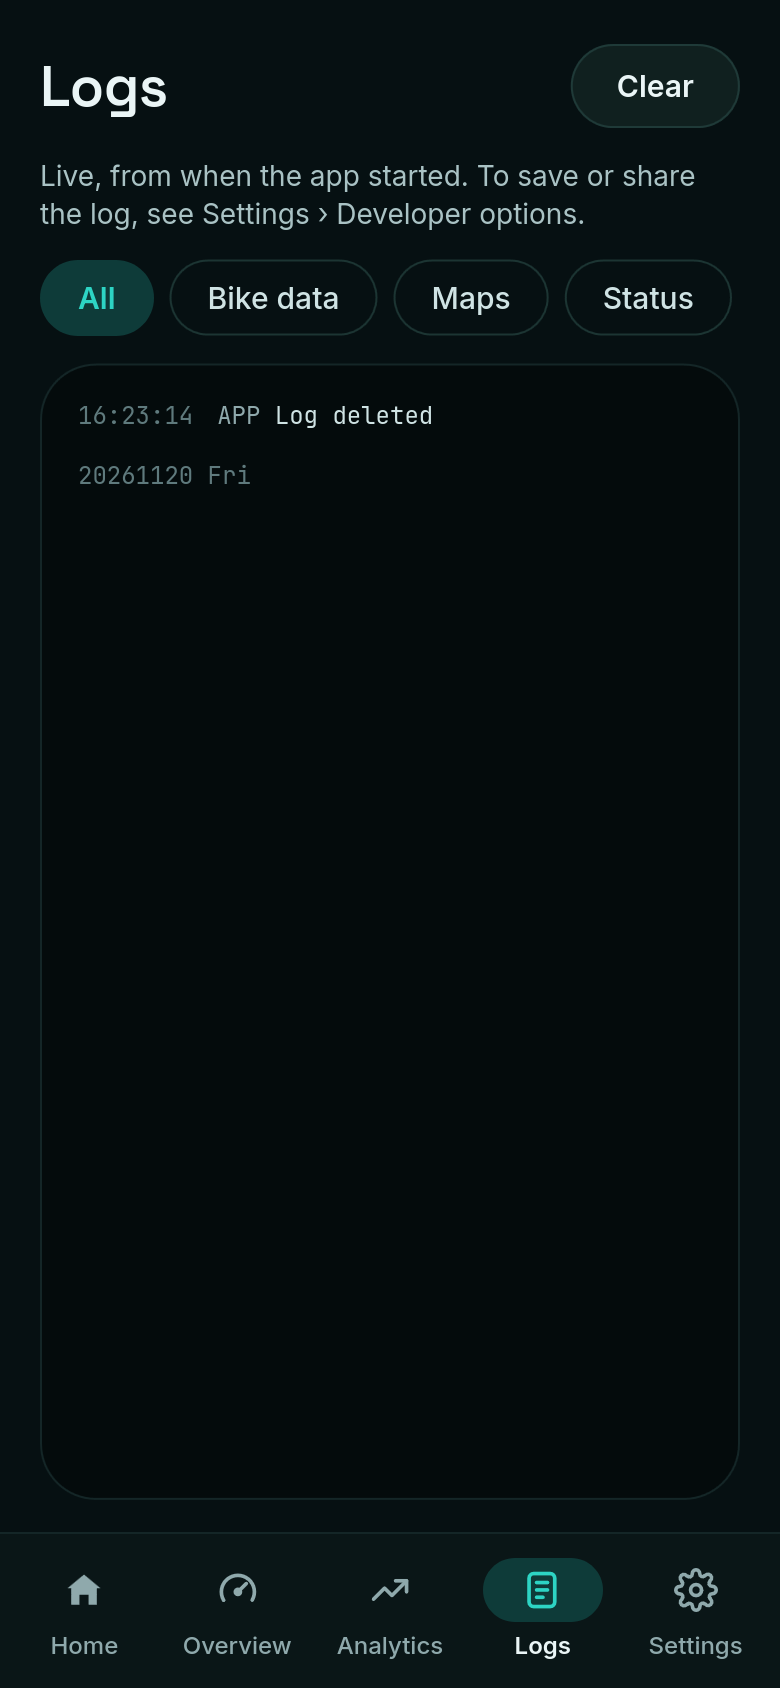
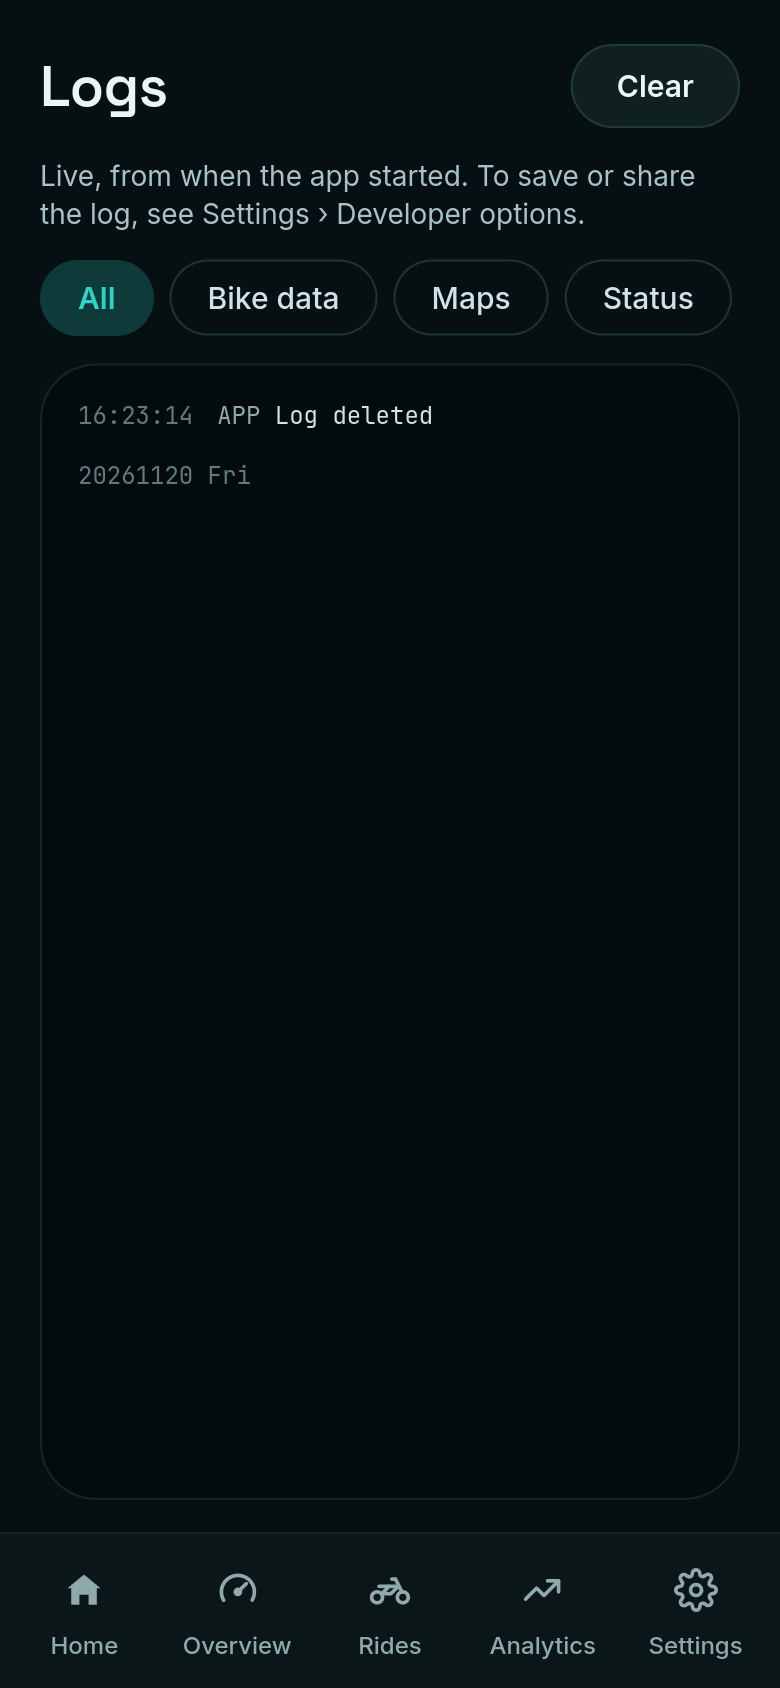
Update screenshots, README and site for the Rides tab and calls.
New screenshots, including the Rides tab. Add Calls on the cluster to
the features, point rides and the live log at their new places, and say
in the permissions that call notifications are read too.

Changed region(s): [[0.6154, 0.9242, 0.7692, 0.9858], [0.4308, 0.9242, 0.5538, 0.9858]]

diff --git a/docs/index.html b/docs/index.html
@@ -111,7 +111,7 @@
 
   /* screenshots: one dark and one light image per screen, the theme picks which shows */
   .shots { display: flex; flex-wrap: wrap; justify-content: center; gap: 16px; margin: 64px 0; }
-  .shots figure { margin: 0; width: calc((100% - 5 * 16px) / 6); }
+  .shots figure { margin: 0; width: calc((100% - 6 * 16px) / 7); }
   .shots img {
     width: 100%; height: auto; display: block; border-radius: 20px;
     border: 1px solid var(--line);
@@ -123,6 +123,7 @@
 
   h2 { font-size: 28px; letter-spacing: -.02em; margin: 0 0 20px; }
   .grid { display: grid; grid-template-columns: 1fr 1fr; gap: 14px; text-align: left; }
+  .grid .wide { grid-column: 1 / -1; }
   .card {
     position: relative; overflow: hidden;
     display: flex; gap: 16px; align-items: flex-start;
@@ -197,9 +198,14 @@
       <figcaption>Home</figcaption>
     </figure>
     <figure>
-      <img class="dark" src="screens/overview-dark.png" width="780" height="1688" alt="Overview screen: fuel bars, gear, ECO or POWER mode, odometer, trip B, average mileage, battery and rides">
+      <img class="dark" src="screens/overview-dark.png" width="780" height="1688" alt="Overview screen: fuel bars, gear, ECO or POWER mode, odometer, trip B, average mileage and battery">
       <img class="light" src="screens/overview-light.png" width="780" height="1688" alt="Overview screen, light theme" loading="lazy">
       <figcaption>Overview</figcaption>
+    </figure>
+    <figure>
+      <img class="dark" src="screens/rides-dark.png" width="780" height="1688" alt="Rides screen: every ride with its date, distance, time, average and top speed">
+      <img class="light" src="screens/rides-light.png" width="780" height="1688" alt="Rides screen, light theme" loading="lazy">
+      <figcaption>Rides</figcaption>
     </figure>
     <figure>
       <img class="dark" src="screens/analytics-dark.png" width="780" height="1688" alt="Analytics screen: distance for the week with the change from last week, rides, riding time, speeds, mileage and a distance chart">
@@ -207,7 +213,7 @@
       <figcaption>Analytics</figcaption>
     </figure>
     <figure>
-      <img class="dark" src="screens/settings-dark.png" width="780" height="1688" alt="Settings screen: bike, Mirror navigation, Ride mode and alerts">
+      <img class="dark" src="screens/settings-dark.png" width="780" height="1688" alt="Settings screen: bike, Mirror navigation, Ride mode, speed and RPM alerts, and Calls on the cluster">
       <img class="light" src="screens/settings-light.png" width="780" height="1688" alt="Settings screen, light theme" loading="lazy">
       <figcaption>Settings</figcaption>
     </figure>
@@ -229,10 +235,11 @@
     <div class="card"><span class="icon"><svg viewBox="0 0 24 24" fill="none" stroke="currentColor" stroke-width="2.2" stroke-linecap="round" stroke-linejoin="round"><path d="M13 2L4 14h7l-1 8 9-12h-7l1-8z"/></svg></span><div><b>Starts by itself</b><p>Connects to the bike when you start navigating.</p></div></div>
     <div class="card"><span class="icon"><svg viewBox="0 0 24 24" fill="none" stroke="currentColor" stroke-width="2.2" stroke-linecap="round" stroke-linejoin="round"><path d="M3 21h11"/><path d="M4 21V5a2 2 0 0 1 2-2h6a2 2 0 0 1 2 2v16"/><path d="M4 10h10"/><path d="M14 8h2a2 2 0 0 1 2 2v6a1.5 1.5 0 0 0 3 0V9l-3-3"/></svg></span><div><b>Bike data at a glance</b><p>RPM, gear, ECO or POWER mode, fuel, odometer, trip B, mileage and battery, read live from the bike.</p></div></div>
     <div class="card"><span class="icon"><svg viewBox="0 0 24 24" fill="none" stroke="currentColor" stroke-width="2.2" stroke-linecap="round" stroke-linejoin="round"><path d="M6 8a6 6 0 0 1 12 0c0 7 3 9 3 9H3s3-2 3-9"/><path d="M10.3 21a1.9 1.9 0 0 0 3.4 0"/></svg></span><div><b>Speed, RPM and fuel alerts</b><p>The phone vibrates at the speed you set, or at high revs in ECO mode, even on silent, and warns you when fuel runs low.</p></div></div>
-    <div class="card"><span class="icon"><svg viewBox="0 0 24 24" fill="none" stroke="currentColor" stroke-width="2.2" stroke-linecap="round" stroke-linejoin="round"><path d="M3 17l6-6 4 4 8-8"/><path d="M15 7h6v6"/></svg></span><div><b>Ride analytics<span class="new">New</span></b><p>Every ride kept. Distance, speed and mileage, plus ECO vs POWER, time in each gear, RPM, idling and throttle, for each ride or by week, month, year or all time.</p></div></div>
+    <div class="card"><span class="icon"><svg viewBox="0 0 24 24" fill="none" stroke="currentColor" stroke-width="2.2" stroke-linecap="round" stroke-linejoin="round"><path d="M3 17l6-6 4 4 8-8"/><path d="M15 7h6v6"/></svg></span><div><b>Ride analytics</b><p>Every ride kept. Distance, speed and mileage, plus ECO vs POWER, time in each gear, RPM, idling and throttle, for each ride or by week, month, year or all time.</p></div></div>
+    <div class="card"><span class="icon"><svg viewBox="0 0 24 24" fill="none" stroke="currentColor" stroke-width="2.2" stroke-linecap="round" stroke-linejoin="round"><path d="M22 16.9v3a2 2 0 0 1-2.2 2 19.8 19.8 0 0 1-8.6-3.1 19.5 19.5 0 0 1-6-6A19.8 19.8 0 0 1 2.1 4.2 2 2 0 0 1 4.1 2h3a2 2 0 0 1 2 1.7c.1 1 .4 1.9.7 2.8a2 2 0 0 1-.5 2.1L8 9.9a16 16 0 0 0 6 6l1.3-1.3a2 2 0 0 1 2.1-.4c.9.3 1.8.6 2.8.7a2 2 0 0 1 1.7 2z"/></svg></span><div><b>Calls on the cluster<span class="new">New</span></b><p>See who is calling on the bike's screen while the phone rings, from the phone app, WhatsApp and other calling apps.</p></div></div>
     <div class="card"><span class="icon"><svg viewBox="0 0 24 24" fill="none" stroke="currentColor" stroke-width="2.2" stroke-linecap="round" stroke-linejoin="round"><path d="M9 11V5.5a1.5 1.5 0 0 1 3 0V10"/><path d="M12 9.5a1.5 1.5 0 0 1 3 0V11"/><path d="M15 10.5a1.5 1.5 0 0 1 3 0V15a6 6 0 0 1-6 6h-1a6 6 0 0 1-4.6-2.2L4 15.5a1.5 1.5 0 0 1 2.3-1.9L9 16"/></svg></span><div><b>Easier to use</b><p>Asks you to turn on Bluetooth if it's off, and tapping the navigation card opens the trip in Google Maps.</p></div></div>
     <div class="card"><span class="icon"><svg viewBox="0 0 24 24" fill="none" stroke="currentColor" stroke-width="2.2" stroke-linecap="round" stroke-linejoin="round"><circle cx="12" cy="12" r="9"/><path d="M12 3a9 9 0 0 0 0 18z" fill="currentColor"/></svg></span><div><b>Dark or light</b><p>Dark, light, follow your phone, or let it go dark by itself from 6 PM to 6 AM.</p></div></div>
-    <div class="card"><span class="icon"><svg viewBox="0 0 24 24" fill="none" stroke="currentColor" stroke-width="2.2" stroke-linecap="round" stroke-linejoin="round"><rect x="4" y="10" width="16" height="11" rx="2.5"/><path d="M8 10V7a4 4 0 0 1 8 0v3"/></svg></span><div><b>Fully private</b><p>No internet permission. Nothing leaves your phone.</p></div></div>
+    <div class="card wide"><span class="icon"><svg viewBox="0 0 24 24" fill="none" stroke="currentColor" stroke-width="2.2" stroke-linecap="round" stroke-linejoin="round"><rect x="4" y="10" width="16" height="11" rx="2.5"/><path d="M8 10V7a4 4 0 0 1 8 0v3"/></svg></span><div><b>Fully private</b><p>No internet permission. Nothing leaves your phone.</p></div></div>
   </div>
 
   <footer>

diff --git a/README.md b/README.md
@@ -18,27 +18,31 @@ The next turn, how far to it, and how long to go, on the bike's own screen, with
 <p align="center">
   <picture>
     <source media="(prefers-color-scheme: light)" srcset="docs/screens/home-light.png">
-    <img src="docs/screens/home-dark.png" width="15%" alt="Home screen while navigating: next turn, time left, fuel, mileage, battery, speed and engine RPM">
+    <img src="docs/screens/home-dark.png" width="13%" alt="Home screen while navigating: next turn, time left, fuel, mileage, battery, speed and engine RPM">
   </picture>
   <picture>
     <source media="(prefers-color-scheme: light)" srcset="docs/screens/overview-light.png">
-    <img src="docs/screens/overview-dark.png" width="15%" alt="Overview screen: fuel bars, gear, ECO or POWER mode, odometer, trip B, average mileage, battery and rides">
+    <img src="docs/screens/overview-dark.png" width="13%" alt="Overview screen: fuel bars, gear, ECO or POWER mode, odometer, trip B, average mileage and battery">
+  </picture>
+  <picture>
+    <source media="(prefers-color-scheme: light)" srcset="docs/screens/rides-light.png">
+    <img src="docs/screens/rides-dark.png" width="13%" alt="Rides screen: every ride with its date, distance, time, average and top speed">
   </picture>
   <picture>
     <source media="(prefers-color-scheme: light)" srcset="docs/screens/analytics-light.png">
-    <img src="docs/screens/analytics-dark.png" width="15%" alt="Analytics screen: distance for the week with the change from last week, rides, riding time, speeds, mileage and a distance chart">
+    <img src="docs/screens/analytics-dark.png" width="13%" alt="Analytics screen: distance for the week with the change from last week, rides, riding time, speeds, mileage and a distance chart">
   </picture>
   <picture>
     <source media="(prefers-color-scheme: light)" srcset="docs/screens/settings-light.png">
-    <img src="docs/screens/settings-dark.png" width="15%" alt="Settings screen: bike, Mirror navigation, Ride mode and alerts">
+    <img src="docs/screens/settings-dark.png" width="13%" alt="Settings screen: bike, Mirror navigation, Ride mode, speed and RPM alerts, and Calls on the cluster">
   </picture>
   <picture>
     <source media="(prefers-color-scheme: light)" srcset="docs/screens/settings-more-light.png">
-    <img src="docs/screens/settings-more-dark.png" width="15%" alt="Settings screen scrolled: appearance, setup, data and developer options with log saving, export and delete">
+    <img src="docs/screens/settings-more-dark.png" width="13%" alt="Settings screen scrolled: appearance, setup, data and developer options with log saving, export and delete">
   </picture>
   <picture>
     <source media="(prefers-color-scheme: light)" srcset="docs/screens/logs-light.png">
-    <img src="docs/screens/logs-dark.png" width="15%" alt="Logs screen: the live log, filtered by bike data, Maps or status">
+    <img src="docs/screens/logs-dark.png" width="13%" alt="Logs screen: the live log, filtered by bike data, Maps or status">
   </picture>
 </p>
 
@@ -64,20 +68,24 @@ cluster instead.
 - **Warns you.** The phone vibrates when you reach a speed you set, or when the
   revs pass a limit you set in ECO mode, even on silent. You get a notification
   when the fuel runs low.
+- **Shows who is calling.** When a call comes in, from the phone app, WhatsApp
+  or another calling app, the caller's name shows on the cluster while it rings.
+  Turn off **Calls on the cluster** in Settings if you don't want it.
 - **Keeps your rides, all of them.** Every ride is recorded from the bike's own
-  speed and odometer. **Analytics** shows your distance for the week, month,
+  speed and odometer. **Rides** lists them, newest first, with the ride in
+  progress on top. **Analytics** shows your distance for the week, month,
   year or all time, how it compares with the period before, riding time,
   average and top speed, mileage, and a chart of the distance per day or month.
 - **Shows how you ride.** Analytics also shows time and distance in ECO and
   POWER, mileage in each mode, time in each gear and shifts, RPM habits, idling
-  and throttle. Tap a ride in **Overview** to see the same for that ride.
+  and throttle. Tap a ride in **Rides** to see the same for that ride.
 - **Works your way.** Switch off **Mirror navigation** to keep turns off the
   cluster, or **Ride mode** to stop Disha reconnecting after a phone restart.
   Pick a dark or light look, follow the phone, or let **Auto** go dark from
   6 PM to 6 AM. Long-press the bike's name in **Settings** to give it your own.
-- **Helps with bug reports.** **Settings › Developer options** saves the log
-  as one file per day (the last 7 days are kept), and exports them as a zip
-  to attach to an issue.
+- **Helps with bug reports.** **Settings › Developer options** shows the live
+  log, saves it as one file per day (the last 7 days are kept), and exports
+  them as a zip to attach to an issue.
 - **Nothing leaves your phone.** Disha has no internet permission at all.
 
 ## Get started
@@ -146,7 +154,7 @@ is no account, no cloud and no tracking. Everything stays on your phone:
 - The log is kept on the phone, and leaves it only when you tap **Export logs**
   (Settings › Developer options). Turn off **Save logs to a file** there to stop keeping it.
   It explains the bike's data in plain words, and can be filtered to bike
-  data, Maps or status lines.
+  data, Maps or status lines (Settings › Developer options › Open logs).
 
 <details>
 <summary><b>Every permission, and why</b></summary>
@@ -154,7 +162,7 @@ is no account, no cloud and no tracking. Everything stays on your phone:
 <br>
 
 <table>
-<tr><td><code>BIND_NOTIFICATION_LISTENER_SERVICE</code></td><td>To read Google Maps' navigation notification. Disha ignores every other app's notifications.</td></tr>
+<tr><td><code>BIND_NOTIFICATION_LISTENER_SERVICE</code></td><td>To read Google Maps' navigation notification, and incoming-call notifications so the cluster can show who is calling. Disha ignores all other notifications.</td></tr>
 <tr><td><code>BLUETOOTH_SCAN</code>, <code>BLUETOOTH_CONNECT</code></td><td>To find the bike and talk to it.</td></tr>
 <tr><td><code>BLUETOOTH</code>, <code>BLUETOOTH_ADMIN</code>, <code>ACCESS_FINE_LOCATION</code></td><td>The same, on older Android versions, which need location permission for any Bluetooth scan. Disha never reads your location.</td></tr>
 <tr><td><code>FOREGROUND_SERVICE</code>, <code>FOREGROUND_SERVICE_CONNECTED_DEVICE</code></td><td>To keep the link to the bike alive while you ride with the screen off.</td></tr>
@@ -172,7 +180,7 @@ Needs only Java 17 or newer, `curl` and `unzip`. No Android Studio, no Gradle.
 
 ```sh
 tools/fetch.sh                  # once: the Eclipse compiler, Android build-tools 34 and platform 34
-./build.sh 0.5.0-beta.1 6       # version name, version code (these are also the defaults)
+./build.sh 0.5.0-beta.2 7       # version name, version code (these are also the defaults)
 ```
 
 `build.sh` compiles the resources with `aapt2`, the Java with `ecj`, dexes with
